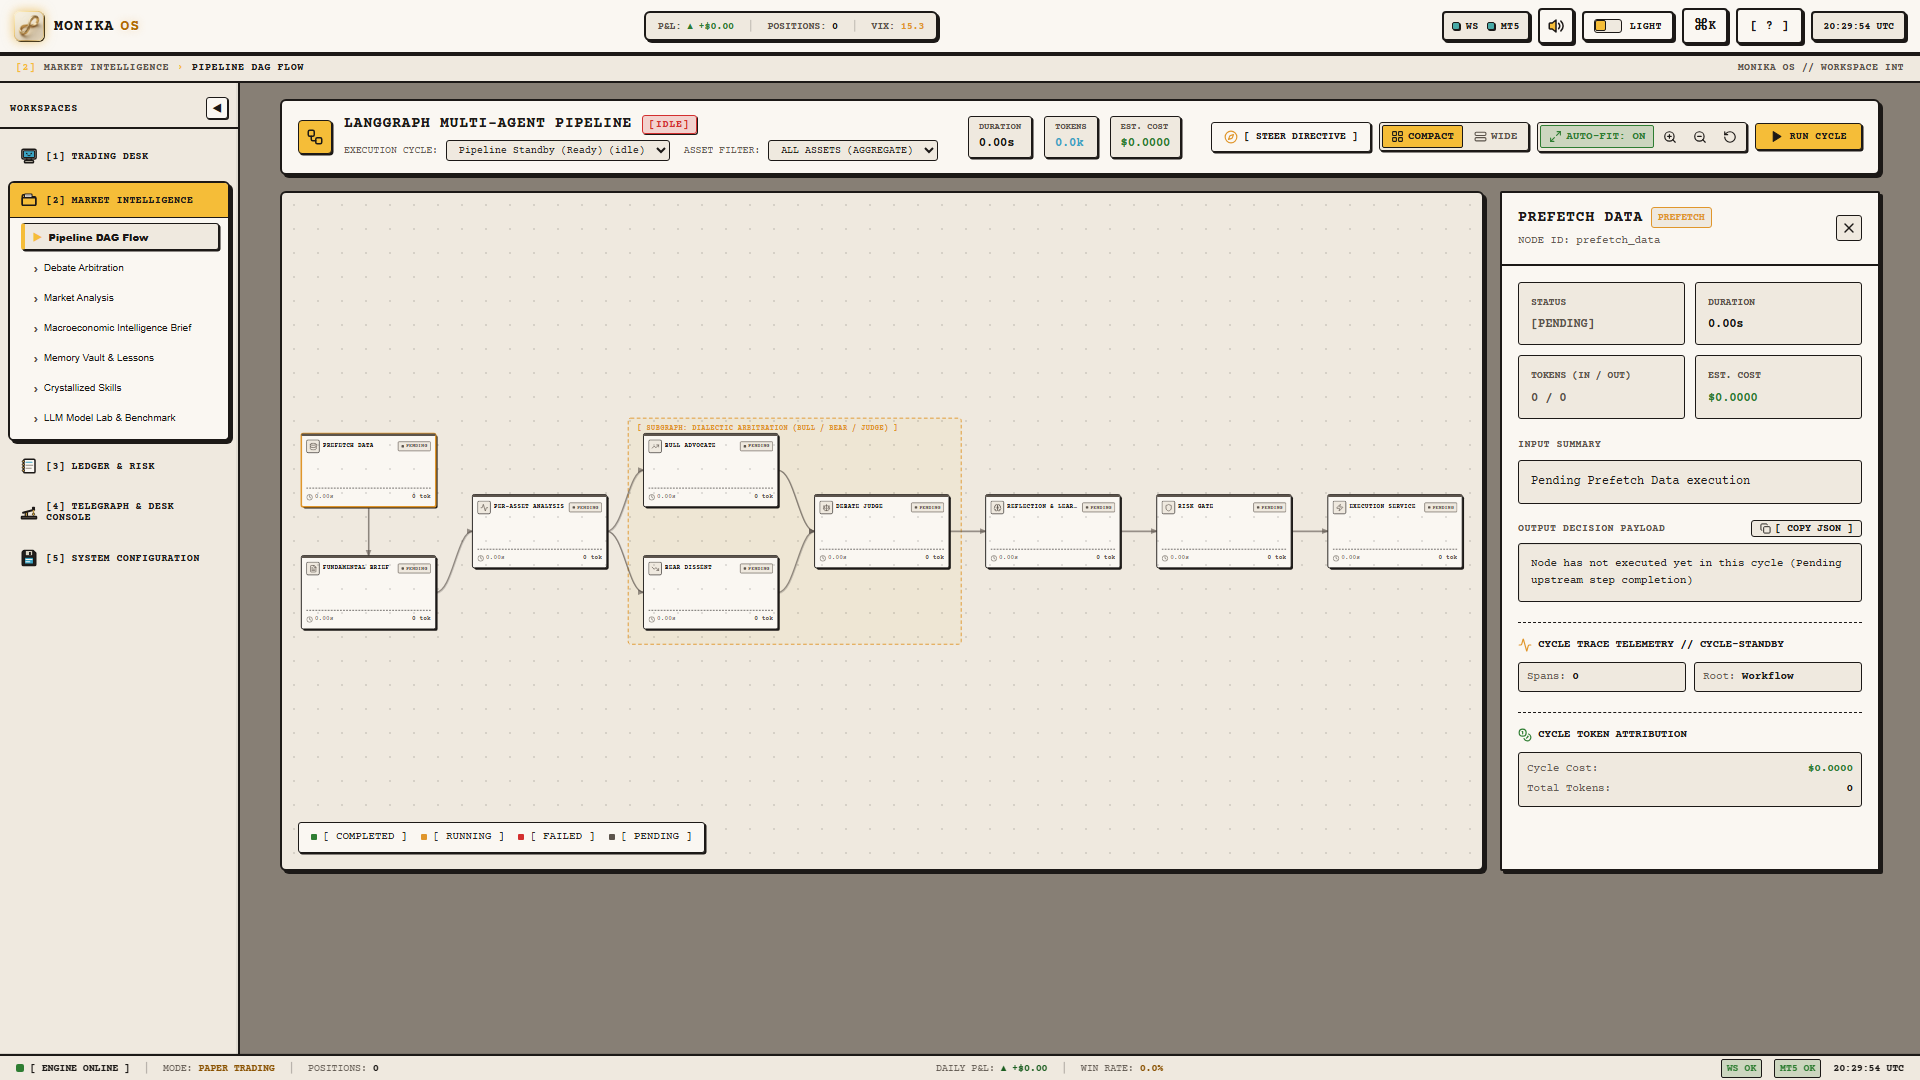
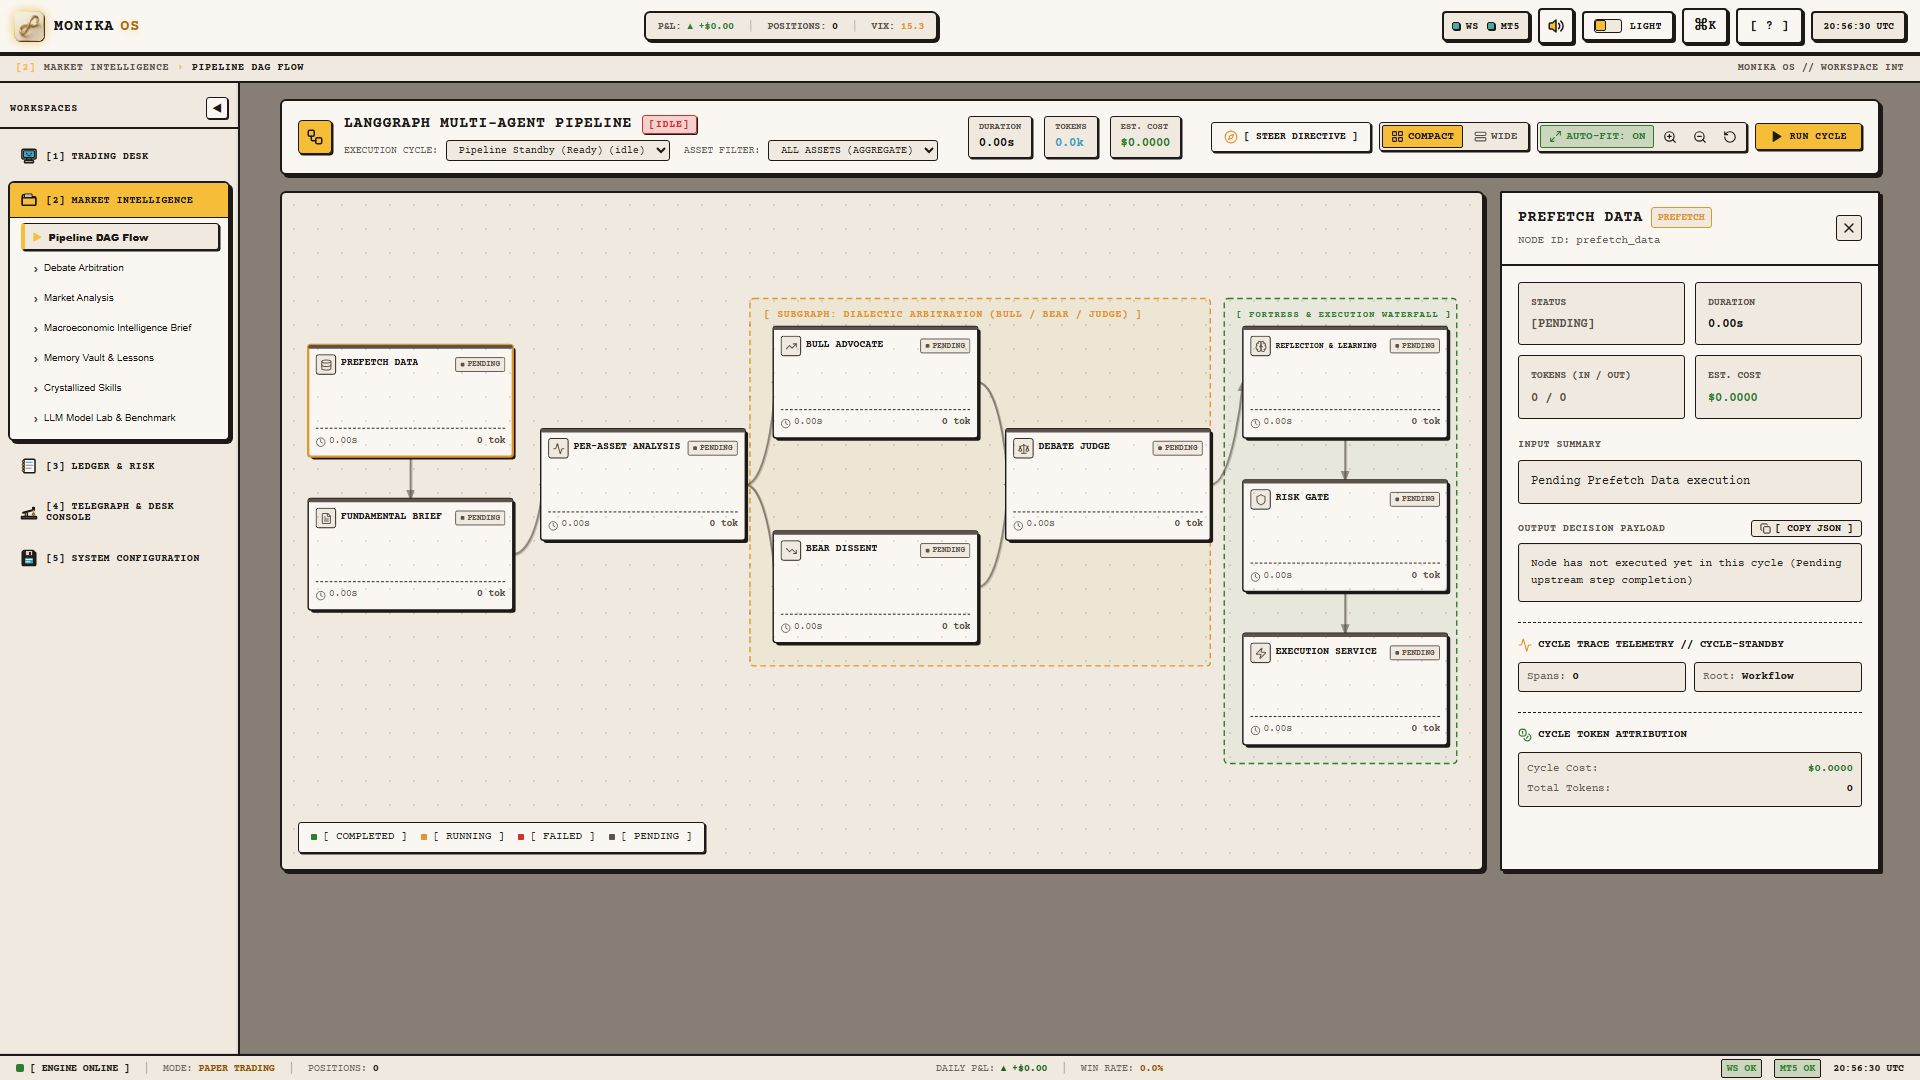
fix(dashboard): compact multi-tier dag layout with execution waterfall
Reorganize LangGraph pipeline DAG into a compact multi-tier layout
with a descending execution waterfall to eliminate horizontal stretching.

- Arrange intake flow (prefetch -> fundamental) vertically on the left
- Maintain dialectic debate arbitration diamond in central subgraph box
- Channel decision verdicts downward through reflection, risk_gate, and
  execution_service in a dedicated green Fortress & Execution Waterfall
- Reduce total graph span from 1930px to 1260px, doubling display node scale
- Dynamically size long node title typography to eliminate truncation
- Recapture ultra-crisp 1920x1080 screenshot in docs and artifacts

Verified-by: pytest trading-agent/tests -k 'dashboard or graph' -q

diff --git a/trading-agent/logging_observability/dashboard/frontend/src/components/panels/GraphVisualizerPanel.tsx b/trading-agent/logging_observability/dashboard/frontend/src/components/panels/GraphVisualizerPanel.tsx
@@ -85,7 +85,14 @@ export const GraphVisualizerPanel: React.FC = () => {
       if (p.y + NODE_HEIGHT > maxY) maxY = p.y + NODE_HEIGHT;
     });
 
-    const padding = 32;
+    if (mode === 'compact') {
+      minX = Math.min(minX, 40);
+      minY = Math.min(minY, 50);
+      maxX = Math.max(maxX, 1275);
+      maxY = Math.max(maxY, 550);
+    }
+
+    const padding = 28;
     const graphWidth = (maxX - minX) + padding * 2;
     const graphHeight = (maxY - minY) + padding * 2;
 
@@ -603,10 +610,10 @@ export const GraphVisualizerPanel: React.FC = () => {
               {graphData && graphData.nodes && graphData.nodes.length > 0 && (
                 <>
                   <rect
-                    x={layoutMode === 'compact' ? '565' : '865'}
-                    y={layoutMode === 'compact' ? '15' : '80'}
-                    width={layoutMode === 'compact' ? '545' : '555'}
-                    height={layoutMode === 'compact' ? '370' : '435'}
+                    x={layoutMode === 'compact' ? '515' : '865'}
+                    y={layoutMode === 'compact' ? '50' : '80'}
+                    width={layoutMode === 'compact' ? '495' : '555'}
+                    height={layoutMode === 'compact' ? '395' : '435'}
                     rx="4"
                     fill="var(--color-subgraph-bg)"
                     stroke="var(--color-brass)"
@@ -614,10 +621,10 @@ export const GraphVisualizerPanel: React.FC = () => {
                     strokeDasharray="6 4"
                   />
                   <text
-                    x={layoutMode === 'compact' ? '580' : '880'}
-                    y={layoutMode === 'compact' ? '35' : '102'}
+                    x={layoutMode === 'compact' ? '530' : '880'}
+                    y={layoutMode === 'compact' ? '70' : '102'}
                     fill="var(--color-brass)"
-                    fontSize={layoutMode === 'compact' ? '11' : '12'}
+                    fontSize={layoutMode === 'compact' ? '10.5' : '12'}
                     fontWeight="800"
                     letterSpacing="0.08em"
                     fontFamily="var(--font-precision)"
@@ -625,6 +632,34 @@ export const GraphVisualizerPanel: React.FC = () => {
                     {layoutMode === 'compact'
                       ? '[ SUBGRAPH: DIALECTIC ARBITRATION (BULL / BEAR / JUDGE) ]'
                       : '[ SUBGRAPH: PER-ASSET DIALECTIC ARBITRATION (BULL / BEAR / SYNTHESIS) ]'}
+                  </text>
+                </>
+              )}
+
+              {/* Subgraph container box: Fortress & Execution Waterfall (compact mode) */}
+              {graphData && graphData.nodes && graphData.nodes.length > 0 && layoutMode === 'compact' && (
+                <>
+                  <rect
+                    x="1025"
+                    y="50"
+                    width="250"
+                    height="500"
+                    rx="4"
+                    fill="rgba(34, 197, 94, 0.03)"
+                    stroke="var(--color-ledger-green)"
+                    strokeWidth="1.5"
+                    strokeDasharray="6 4"
+                  />
+                  <text
+                    x="1038"
+                    y="70"
+                    fill="var(--color-ledger-green)"
+                    fontSize="10"
+                    fontWeight="800"
+                    letterSpacing="0.08em"
+                    fontFamily="var(--font-precision)"
+                  >
+                    [ FORTRESS & EXECUTION WATERFALL ]
                   </text>
                 </>
               )}

diff --git a/trading-agent/logging_observability/dashboard/frontend/src/components/panels/graph/graphUtils.ts b/trading-agent/logging_observability/dashboard/frontend/src/components/panels/graph/graphUtils.ts
@@ -54,15 +54,15 @@ export const getStatusColor = (status: GraphNodeStatus) => {
 };
 
 export const COMPACT_POSITIONS: Record<string, { x: number; y: number }> = {
-  prefetch_data: { x: 30, y: 40 },
-  fundamental_brief: { x: 30, y: 240 },
-  per_asset_analysis: { x: 310, y: 140 },
-  bull_advocate: { x: 590, y: 40 },
-  bear_dissent: { x: 590, y: 240 },
-  debate_judge: { x: 870, y: 140 },
-  reflection: { x: 1150, y: 140 },
-  risk_gate: { x: 1430, y: 140 },
-  execution: { x: 1710, y: 140 },
+  prefetch_data: { x: 40, y: 100 },
+  fundamental_brief: { x: 40, y: 265 },
+  per_asset_analysis: { x: 290, y: 190 },
+  bull_advocate: { x: 540, y: 80 },
+  bear_dissent: { x: 540, y: 300 },
+  debate_judge: { x: 790, y: 190 },
+  reflection: { x: 1045, y: 80 },
+  risk_gate: { x: 1045, y: 245 },
+  execution: { x: 1045, y: 410 },
 };
 
 export const WIDE_POSITIONS: Record<string, { x: number; y: number }> = {

diff --git a/trading-agent/logging_observability/dashboard/frontend/src/components/panels/graph/GraphNode.tsx b/trading-agent/logging_observability/dashboard/frontend/src/components/panels/graph/GraphNode.tsx
@@ -101,7 +101,7 @@ export const GraphNodeComponent: React.FC<GraphNodeProps> = ({
 
               <span
                 style={{
-                  fontSize: '10.5px',
+                  fontSize: node.name.length > 18 ? '8.5px' : '10.5px',
                   fontWeight: 800,
                   whiteSpace: 'nowrap',
                   overflow: 'hidden',
